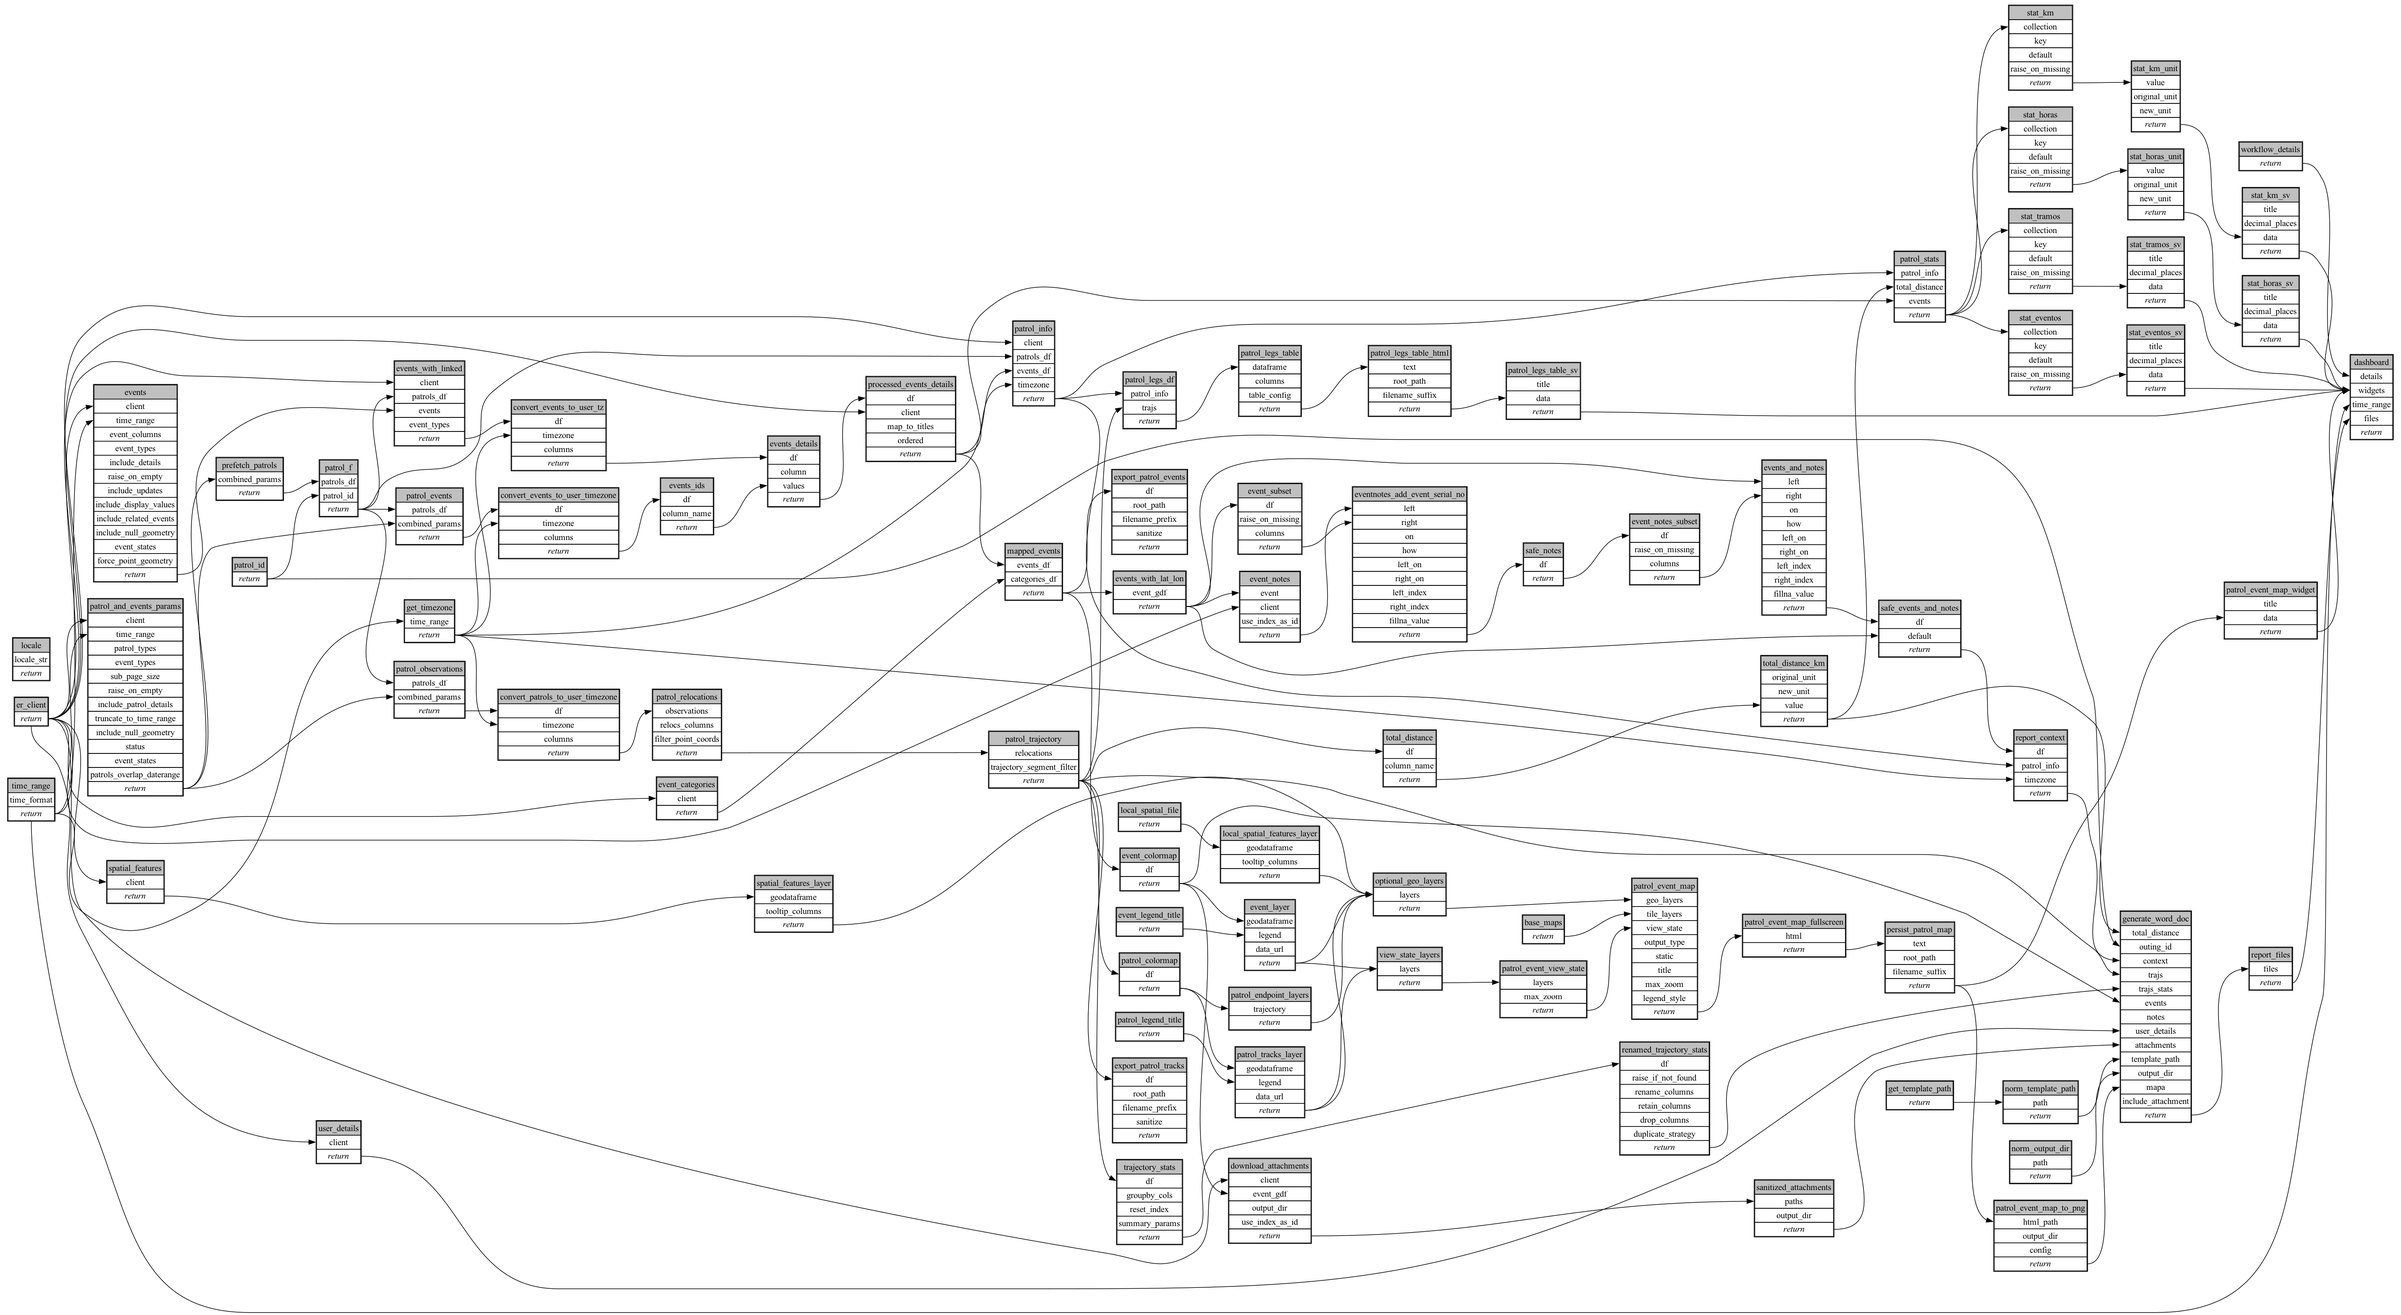
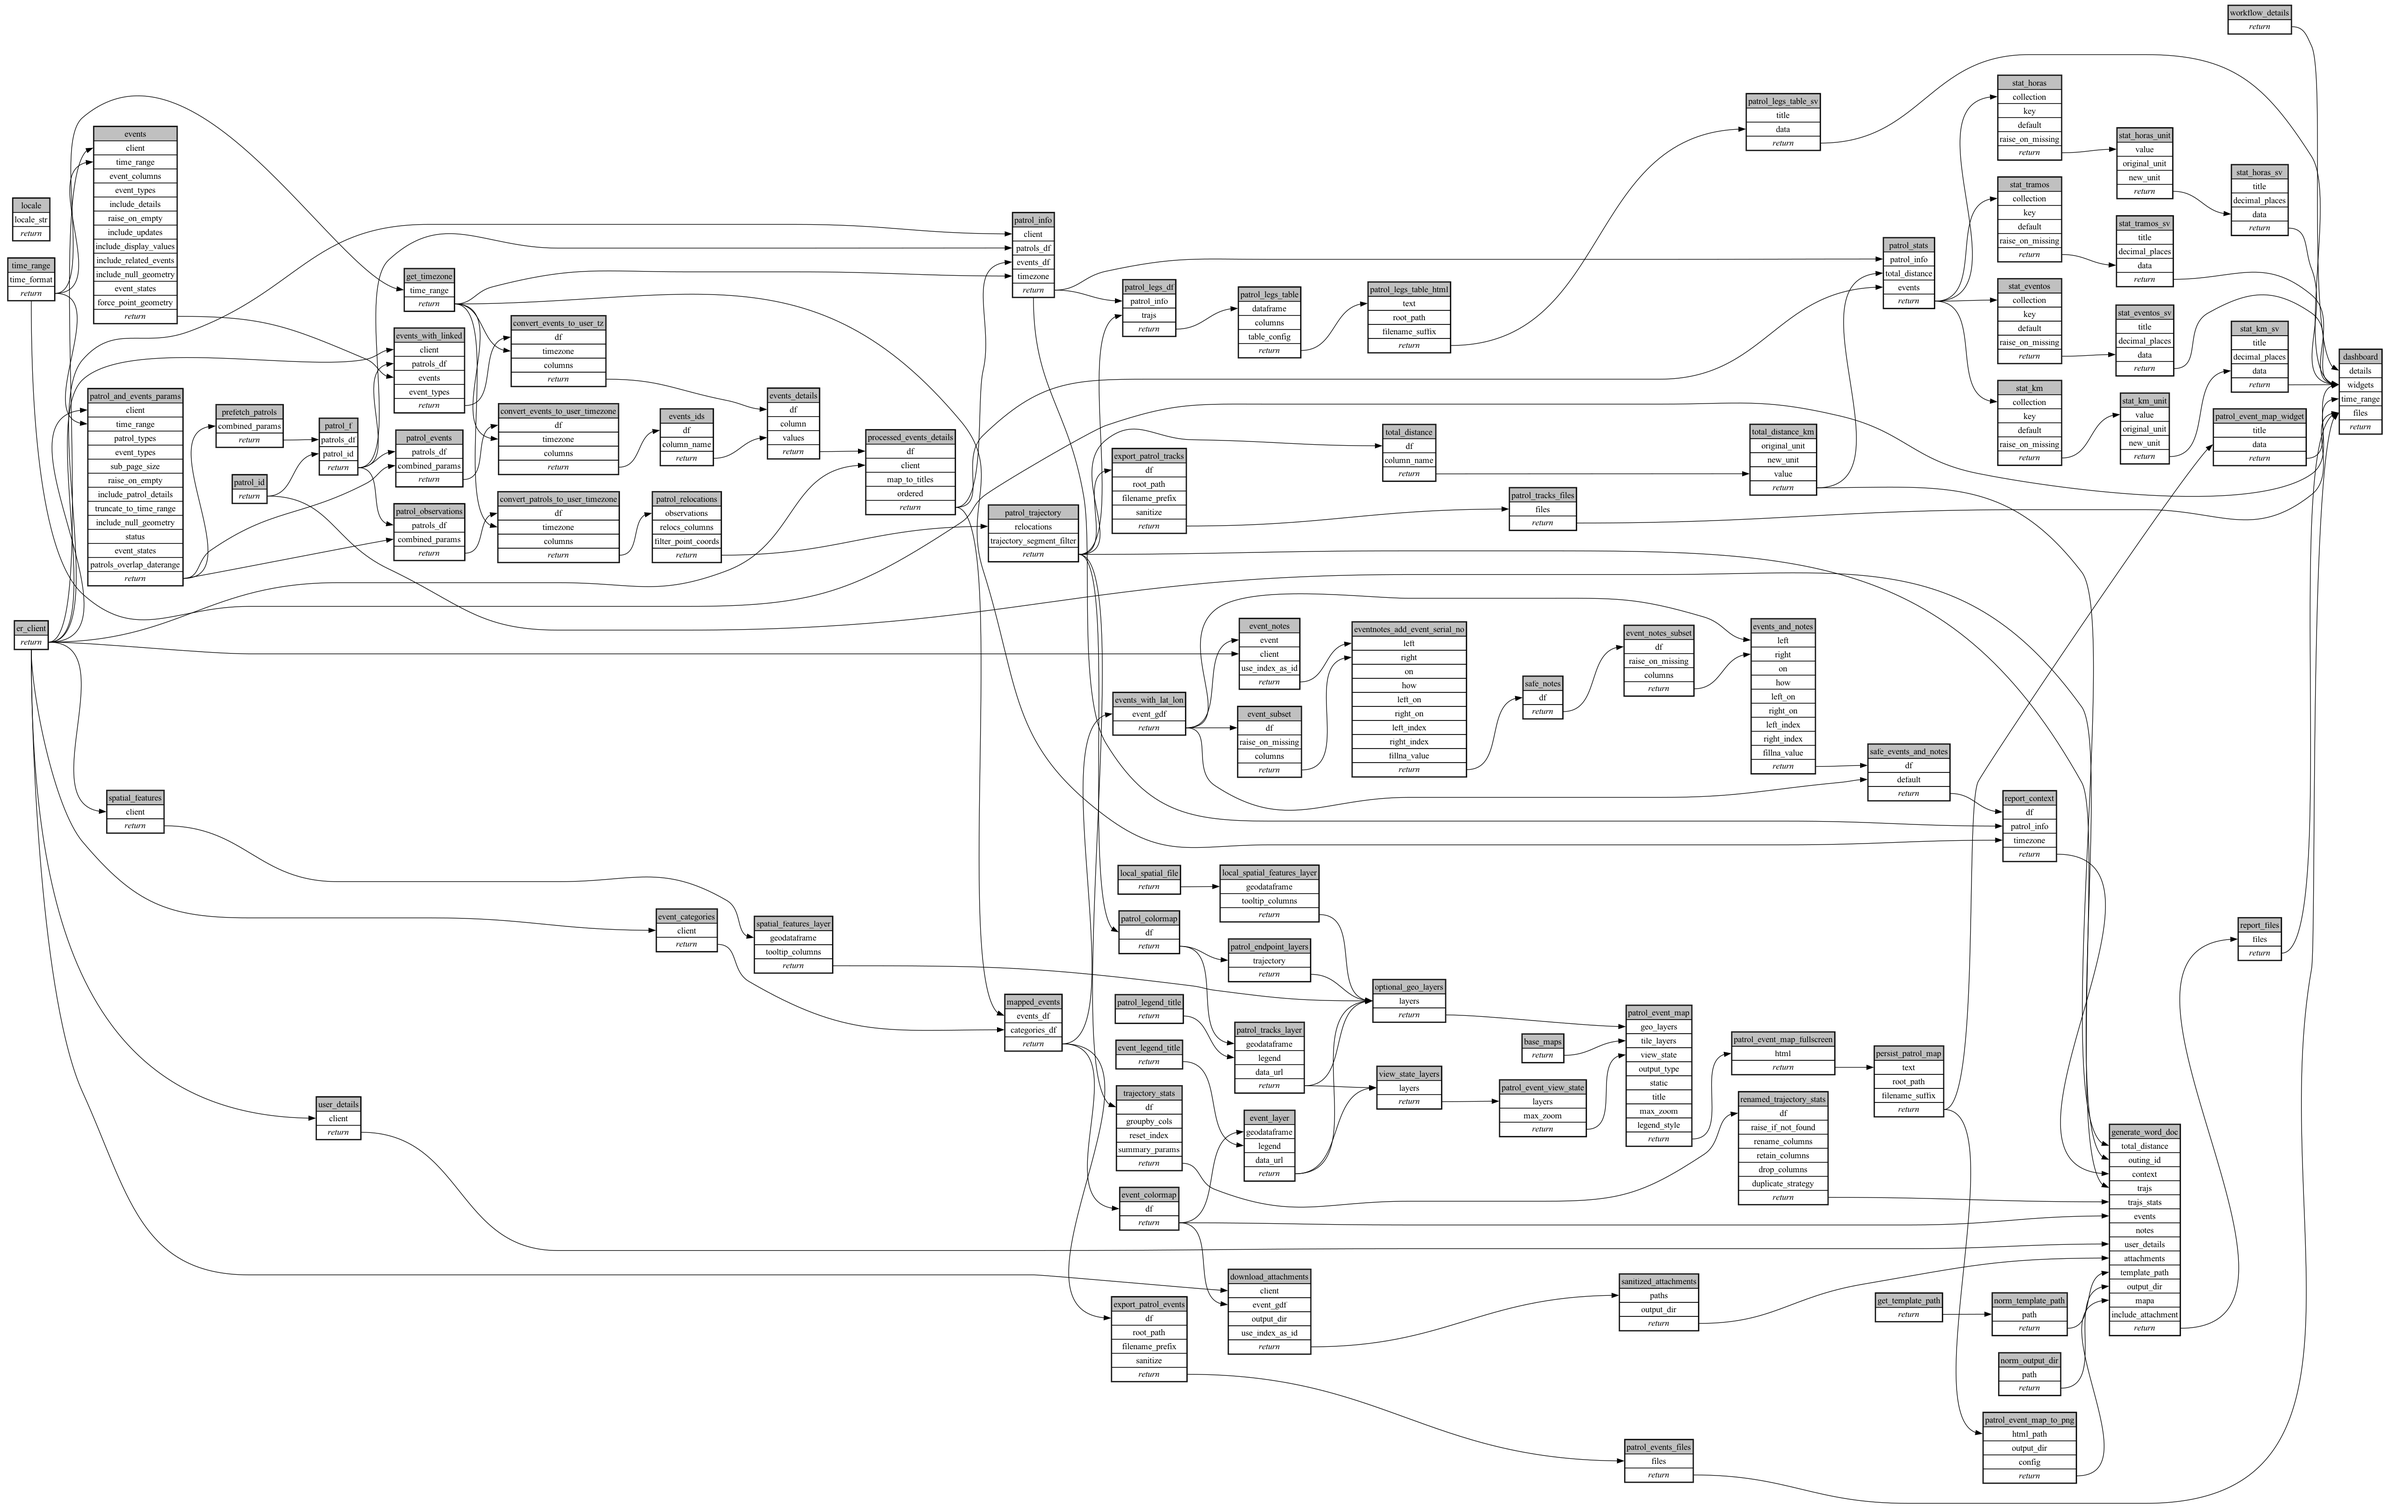
List the map's data files in the Files tab
The desktop Files tab only lists files the dashboard declares, so the
tracks and events exports were in the results folder but not in the tab.
Declare them next to the Word report (empty list when an export is
skipped). Drop plain parquet from the format choices: for map data it is
the same file as geoparquet and was listed twice.

diff --git a/ecoscope-workflows-patrol-event-workflow/ecoscope_workflows_patrol_event_workflow/dags/run_sequential.py b/ecoscope-workflows-patrol-event-workflow/ecoscope_workflows_patrol_event_workflow/dags/run_sequential.py
@@ -1953,6 +1953,42 @@ def main(params: dict[str, Any], validate_params_schema: bool = True):
         .call()
     )
 
+    patrol_tracks_files = (
+        task(create_files_single_view)
+        .validate()
+        .set_task_instance_id("patrol_tracks_files")
+        .handle_errors()
+        .with_tracing()
+        .skipif(
+            conditions=[
+                never,
+            ],
+            unpack_depth=1,
+        )
+        .partial(
+            files=export_patrol_tracks, **(params.get("patrol_tracks_files") or {})
+        )
+        .call()
+    )
+
+    patrol_events_files = (
+        task(create_files_single_view)
+        .validate()
+        .set_task_instance_id("patrol_events_files")
+        .handle_errors()
+        .with_tracing()
+        .skipif(
+            conditions=[
+                never,
+            ],
+            unpack_depth=1,
+        )
+        .partial(
+            files=export_patrol_events, **(params.get("patrol_events_files") or {})
+        )
+        .call()
+    )
+
     dashboard = (
         task(gather_dashboard)
         .validate()
@@ -1977,7 +2013,7 @@ def main(params: dict[str, Any], validate_params_schema: bool = True):
                 patrol_event_map_widget,
             ],
             time_range=time_range,
-            files=report_files,
+            files=[report_files, patrol_tracks_files, patrol_events_files],
             **(params.get("dashboard") or {}),
         )
         .call()

diff --git a/ecoscope-workflows-patrol-event-workflow/ecoscope_workflows_patrol_event_workflow/dags/run_sequential_mock_io.py b/ecoscope-workflows-patrol-event-workflow/ecoscope_workflows_patrol_event_workflow/dags/run_sequential_mock_io.py
@@ -1980,6 +1980,42 @@ def main(params: dict[str, Any], validate_params_schema: bool = True):
         .call()
     )
 
+    patrol_tracks_files = (
+        task(create_files_single_view)
+        .validate()
+        .set_task_instance_id("patrol_tracks_files")
+        .handle_errors()
+        .with_tracing()
+        .skipif(
+            conditions=[
+                never,
+            ],
+            unpack_depth=1,
+        )
+        .partial(
+            files=export_patrol_tracks, **(params.get("patrol_tracks_files") or {})
+        )
+        .call()
+    )
+
+    patrol_events_files = (
+        task(create_files_single_view)
+        .validate()
+        .set_task_instance_id("patrol_events_files")
+        .handle_errors()
+        .with_tracing()
+        .skipif(
+            conditions=[
+                never,
+            ],
+            unpack_depth=1,
+        )
+        .partial(
+            files=export_patrol_events, **(params.get("patrol_events_files") or {})
+        )
+        .call()
+    )
+
     dashboard = (
         task(gather_dashboard)
         .validate()
@@ -2004,7 +2040,7 @@ def main(params: dict[str, Any], validate_params_schema: bool = True):
                 patrol_event_map_widget,
             ],
             time_range=time_range,
-            files=report_files,
+            files=[report_files, patrol_tracks_files, patrol_events_files],
             **(params.get("dashboard") or {}),
         )
         .call()

diff --git a/README.md b/README.md
@@ -38,7 +38,7 @@ The report can only show what was recorded: a leg with an empty form, or a patro
   <img src="docs/images/dashboard.svg" alt="The dashboard: four headline numbers, a table of legs and a map of the route with the events" width="100%">
 </p>
 
-The four numbers at the top give the patrol at a glance. Below them, the legs table shows how the patrol unfolded, and the map shows where it went and where each event was recorded. The Word report is in the dashboard's files, ready to download, next to the map's data: the patrol tracks and the events as GIS files (GeoParquet by default; choose GeoPackage, CSV or Parquet under **Data Export**).
+The four numbers at the top give the patrol at a glance. Below them, the legs table shows how the patrol unfolded, and the map shows where it went and where each event was recorded. The Word report is in the dashboard's files, ready to download, next to the map's data: the patrol tracks and the events as GIS files (GeoParquet by default; choose GeoPackage or CSV under **Data Export**). They are listed in the **Files** tab.
 
 | On the dashboard | In English | What it shows |
 |---|---|---|

diff --git a/ecoscope-workflows-patrol-event-workflow/README.md b/ecoscope-workflows-patrol-event-workflow/README.md
@@ -5,8 +5,8 @@
 
 ```yaml
 # fingerprint:
-artifacts_sha256_basic: 14ff54f622faedd380aff75f0ab306ebb966b88a617f61f547c296d8653aed25
-artifacts_sha256_strict: 9237c9c04faad7f74a732bdcf7f80d5426d3975ab0c100ec147e954e4da4afea
+artifacts_sha256_basic: 148eb3b4781338d42ebf3438bd1cc0e704655d1aec120e0d2b8e459b84df1cd7
+artifacts_sha256_strict: d5d8784b6d54956e4dc0c8a904f2a5c31190cdd19af4aac51908104a0c2180ff
 installed_requirements:
 - channel: https://repo.prefix.dev/ecoscope-workflows/
   name: ecoscope-platform
@@ -21,7 +21,7 @@ installed_requirements:
   name: ecoscope-workflows-ext-apn
   version: {version: ==0.0.32}
 params_sha256: b03a7c5391e423dda55babf0c019570a19064a1107697e49d67107cd848bf5eb
-spec_sha256: 1dcc25f7ebb6ba2a5afa394cd470a689679be7c2cf9b7afe3f1e616d421c9774
+spec_sha256: 860b4d7310042180164b0ba9a648631e2e7b84b512f95de34f4ab6ccc25ae483
 
 ```
 
